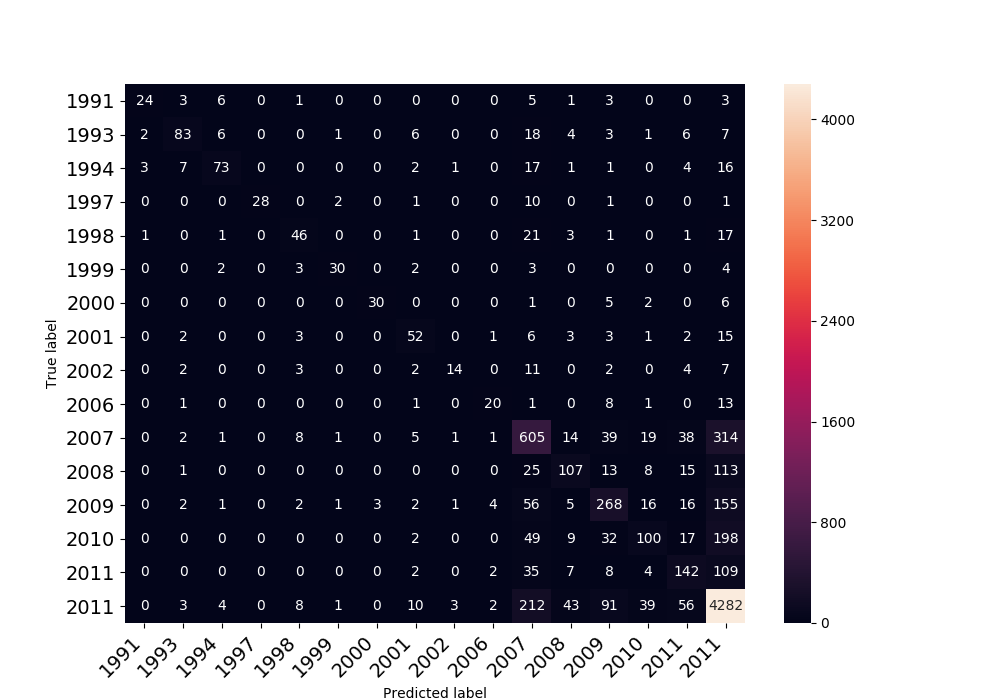
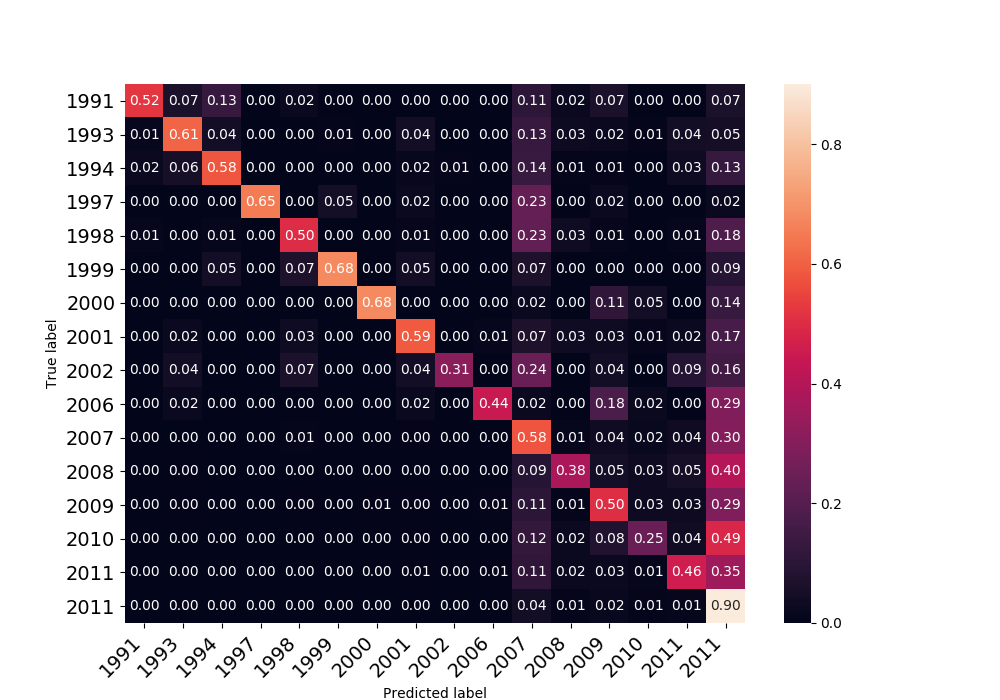
qwer

diff --git a/car-recognition-aws/heatMapConfusionMatrix.py b/car-recognition-aws/heatMapConfusionMatrix.py
@@ -1,8 +1,9 @@
+#referred to code here https://gist.github.com/shaypal5/94c53d765083101efc0240d776a23823 
 import pandas as pd
 import matplotlib.pyplot as plt
 import seaborn as sns
-
-def print_confusion_matrix(confusion_matrix, class_names, figsize = (10,7), fontsize=14):
+import numpy as np
+def print_confusion_matrix(confusion_matrix, class_names, normalize, figsize = (10,7), fontsize=14):
     """Prints a confusion matrix, as returned by sklearn.metrics.confusion_matrix, as a heatmap.
     
     Arguments
@@ -23,12 +24,18 @@ def print_confusion_matrix(confusion_matrix, class_names, figsize = (10,7), font
     matplotlib.figure.Figure
         The resulting confusion matrix figure
     """
+    if normalize:
+        confusion_matrix = confusion_matrix / confusion_matrix.sum(axis=1)[:, np.newaxis]
+        print("Normalized confusion matrix")
+    else:
+        print('Confusion matrix, without normalization')
     df_cm = pd.DataFrame(
         confusion_matrix, index=class_names, columns=class_names, 
     )
     fig = plt.figure(figsize=figsize)
     try:
-        heatmap = sns.heatmap(df_cm, annot=True, fmt="d")
+        fmt = '.2f'
+        heatmap = sns.heatmap(df_cm, annot=True, fmt=fmt)
     except ValueError:
         raise ValueError("Confusion matrix values must be integers.")
     heatmap.yaxis.set_ticklabels(heatmap.yaxis.get_ticklabels(), rotation=0, ha='right', fontsize=fontsize)
@@ -40,7 +47,7 @@ def print_confusion_matrix(confusion_matrix, class_names, figsize = (10,7), font
 
 if __name__ == "__main__":
     classes = ['1991', '1993', '1994', '1997', '1998', '1999', '2000', '2001', '2002', '2006', '2007', '2008', '2009', '2010', '2011', '2011']
-    matrix = [[  24,    3,    6,    0,    1,    0,    0,    0,    0,    0,    5,    1,    3,    0,
+    matrix = np.array([[  24,    3,    6,    0,    1,    0,    0,    0,    0,    0,    5,    1,    3,    0,
      0,    3],
  [   2,   83,    6,    0,    0,    1,    0,    6,    0,    0,   18,    4,    3,    1,
      6,    7,],
@@ -71,7 +78,12 @@ if __name__ == "__main__":
  [   0,    0,    0,    0,    0,    0,    0,    2,    0,    2,   35,    7,    8,    4,
    142,  109],
  [   0,    3,    4,    0,    8,    1,    0,   10,    3,    2,  212,   43,   91,   39,
-    56, 4282]]
-    print_confusion_matrix(matrix, classes)
+    56, 4282]])
+    print(type(matrix[0]))
+    for i in matrix:
+        for num in i:
+            num = num.astype(np.int32)
+    print(type(matrix[0][0]))
+    print_confusion_matrix(matrix, classes, True)
     
     

diff --git a/car-recognition-aws/matlabtesterYearBalanced.py b/car-recognition-aws/matlabtesterYearBalanced.py
@@ -110,12 +110,12 @@ def getVGG16Architecture(classes, dropoutRate):
     x = Flatten()(base_model.output)
     
     #add another fully connected layers with batch norm and dropout
-    x = Dense(4096, activation='relu')(x)
+    x = Dense(256, activation='relu')(x)
     x = BatchNormalization()(x)
     x = Dropout(dropoutRate)(x)
     
     #add another fully connected layers with batch norm and dropout
-    x = Dense(4096, activation='relu')(x)
+    x = Dense(256, activation='relu')(x)
     x = BatchNormalization()(x)
     x = Dropout(dropoutRate)(x)
 
